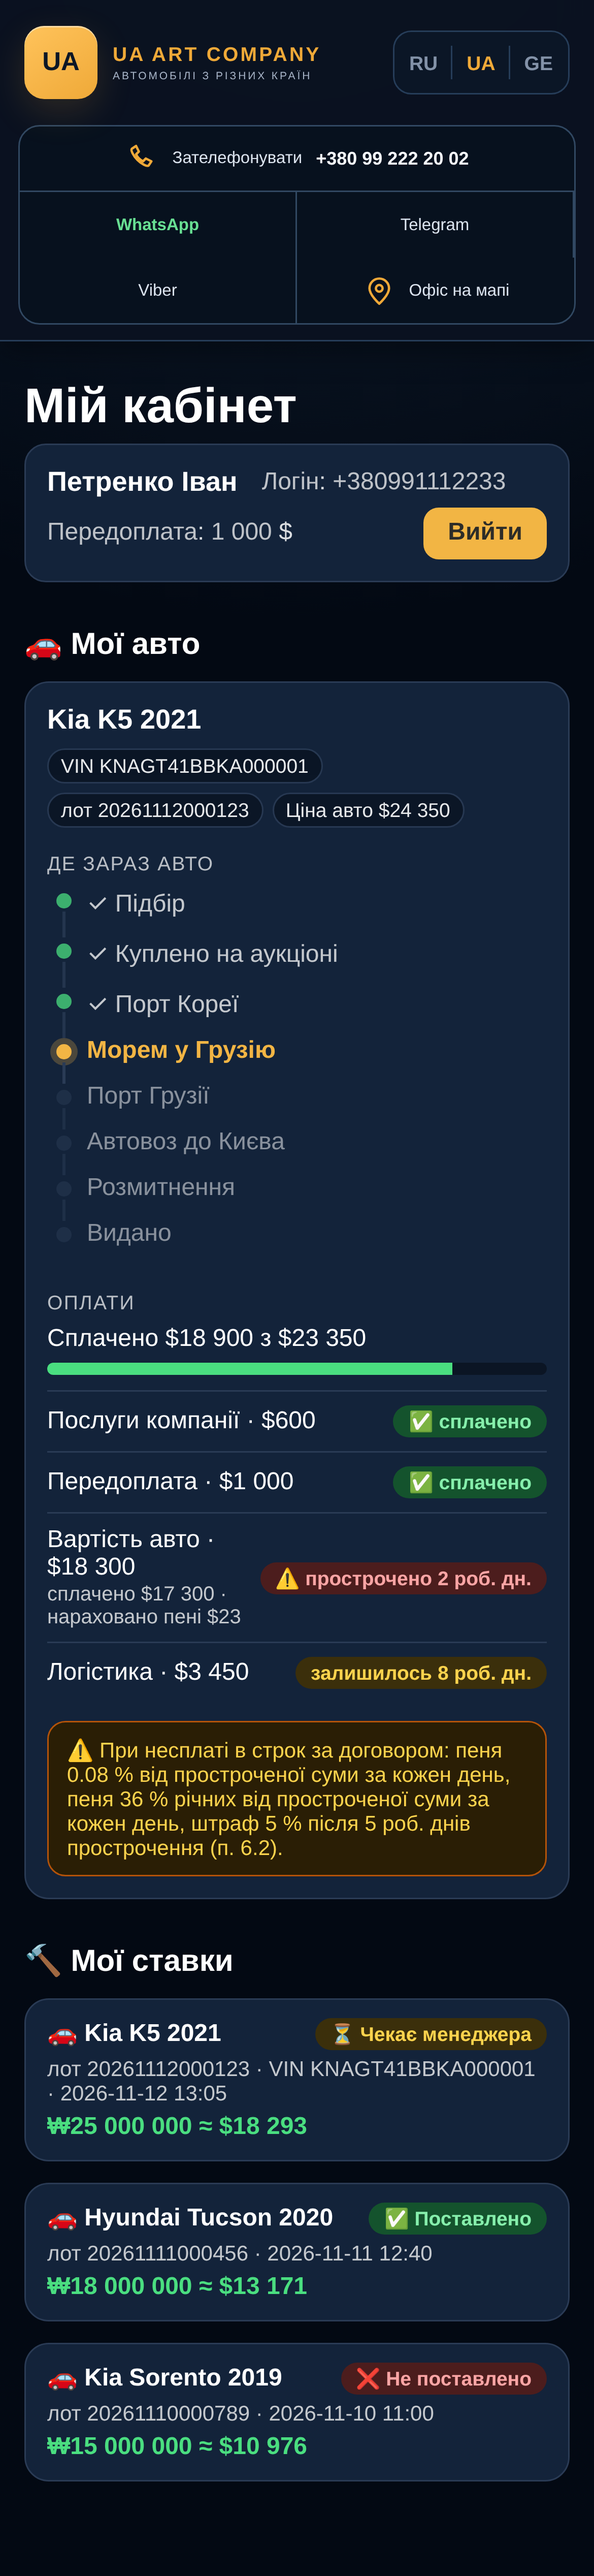
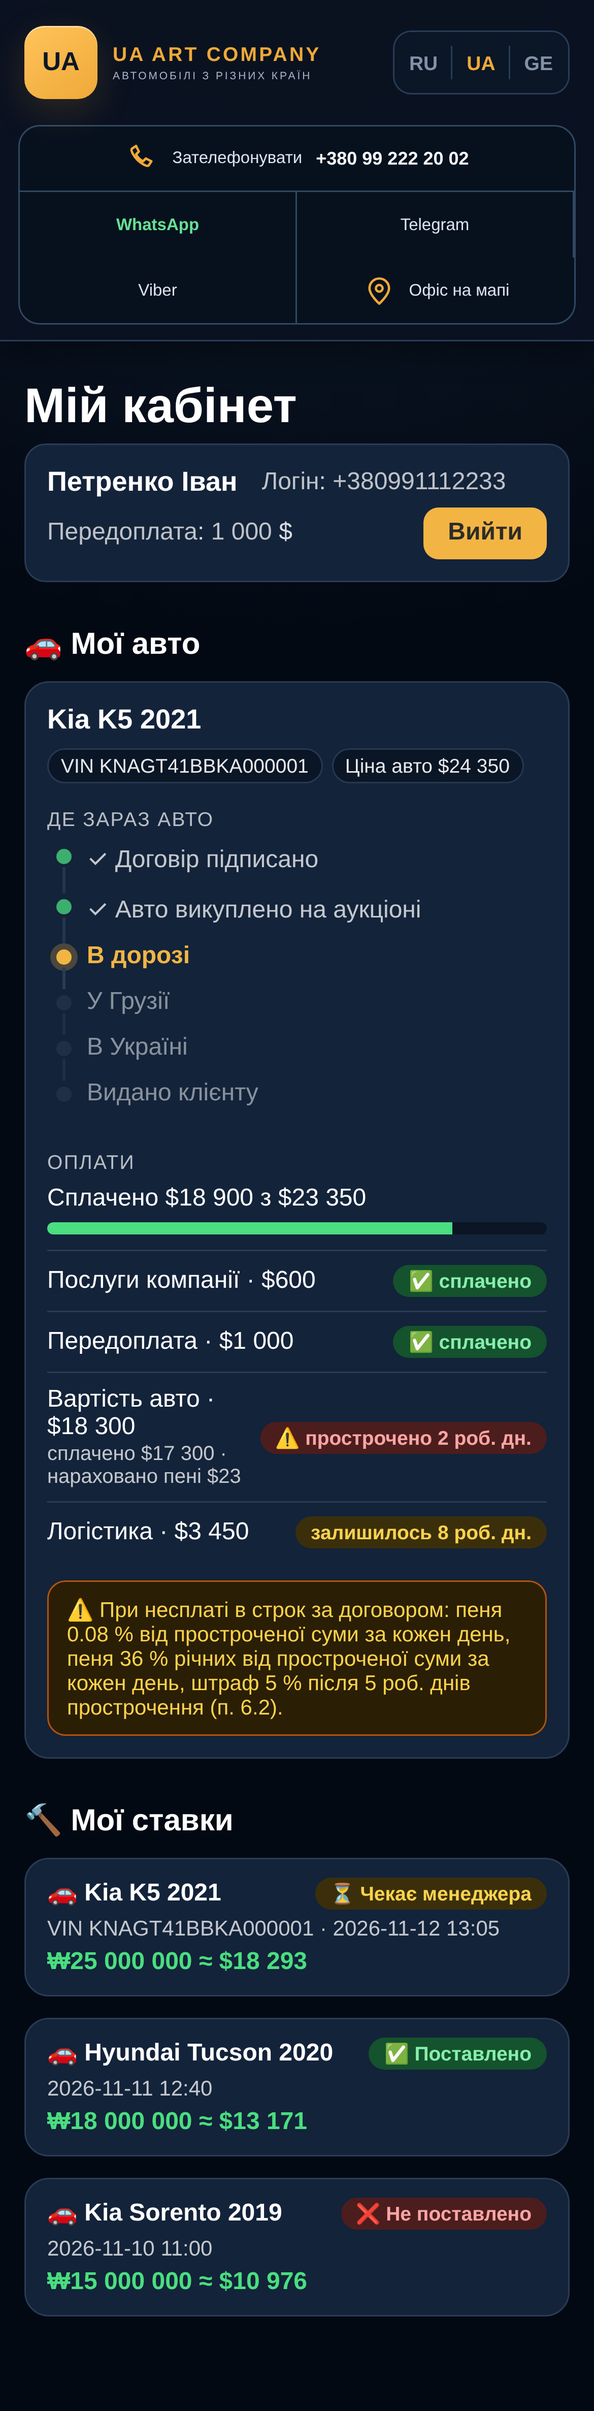
AUCTION-MGR-BIDS-001: client page without lot numbers (VIN only, owner); mockup with the CRM's real stages
Claude-Session: https://claude.ai/code/session_012KEXaZ59pXj8FEh3FWXauP

diff --git a/cloud/auction_manager_bids_001/ua_client_cabinet.py b/cloud/auction_manager_bids_001/ua_client_cabinet.py
@@ -3,7 +3,7 @@
 page(korea_html) builds it from the live Korea page: the same site header (taken from that page, so the menu and the
 language switch stay one), the site's stylesheet and language script, then three parts filled by GET /api/auction/my
 for the logged-in client (owner 2026-11-12: clearly split, by stages): a short line with the client's data and
-«Вийти»; «🚗 Мої авто» — a card per car: photo, title, VIN / lot / price, «Де зараз авто» (the delivery stages,
+«Вийти»; «🚗 Мої авто» — a card per car: photo, title, VIN / price (no lot number, owner 2026-11-12), «Де зараз авто» (the delivery stages,
 done / current / next), «Оплати» (paid of total with a bar, each payment with a coloured status: paid, days left,
 overdue, penalty accrued) and the contract's penalty terms for late payment; «🔨 Мої ставки» — a card per bid with a
 coloured status (waiting for the manager / placed / not placed). The numbers and stages come from the contract
@@ -35,7 +35,6 @@ TEXT = {
               'Вы ещё не вошли. Войдите на странице аукционов Кореи («Вход для клиентов»).',
               'ჯერ არ შესულხართ. შედით კორეის აუქციონების გვერდზე («კლიენტების შესვლა»).'],
     'none': ['Поки немає.', 'Пока нет.', 'ჯერ არ არის.'],
-    'lot': ['лот', 'лот', 'ლოტი'],
     'stages': ['Де зараз авто', 'Где сейчас авто', 'სად არის ახლა ავტომობილი'],
     'payments': ['Оплати', 'Оплаты', 'გადახდები'],
     'paid_of': ['Сплачено ${p} з ${a}', 'Оплачено ${p} из ${a}', 'გადახდილია ${p} / ${a}'],
@@ -128,13 +127,13 @@ SCRIPT = (
     'return el("li",s.state,(s.state==="done"?"✓ ":"")+s.label);})):a.stage_label?el("div",null,null,'
     '[chip("wait",a.stage_label)]):null;var img=null;if(a.photo){img=el("img");img.src=a.photo;img.alt="";'
     'img.loading="lazy";img.onerror=function(){img.remove();};}return el("div","cab-card",null,[img,el("div","cab-in",null,[el("div","cab-title",'
-    'a.title+(a.year?" "+a.year:"")),tags([a.vin?"VIN "+a.vin:"",a.lot_id?t("lot")+" "+a.lot_id:"",'
+    'a.title+(a.year?" "+a.year:"")),tags([a.vin?"VIN "+a.vin:"",'
     'a.price_usd?t("price")+" $"+n(a.price_usd):""]),steps?el("div","cab-h",t("stages")):null,steps,'
     'pays.length?el("div","cab-h",t("payments")):null,pays.length?el("div",null,t("paid_of",{p:n(paid),'
     'a:n(total)})):null,pays.length?bar:null].concat(pays.map(payment)).concat([penalty(a.penalty)]))]);}'
     'function bid(b){var cls=b.status==="placed"?"ok":b.status==="requested"?"wait":"bad";'
     'return el("div","cab-card cab-bid",null,[el("div","top",null,[el("b",null,"🚗 "+b.title),'
-    'chip(cls,T[b.status]?t(b.status):t("not_placed"))]),el("div","cab-sub",[t("lot")+" "+b.lot_id,'
+    'chip(cls,T[b.status]?t(b.status):t("not_placed"))]),el("div","cab-sub",['
     'b.vin?"VIN "+b.vin:"",b.created_at.slice(0,16).replace("T"," ")].filter(Boolean).join(" · ")),'
     'el("div","cab-usd","₩"+n(b.krw)+" ≈ $"+n(b.usd))]);}'
     'function render(){if(!data)return;var c=data.client;$("cab-in").hidden=false;$("cab-login").hidden=true;'
